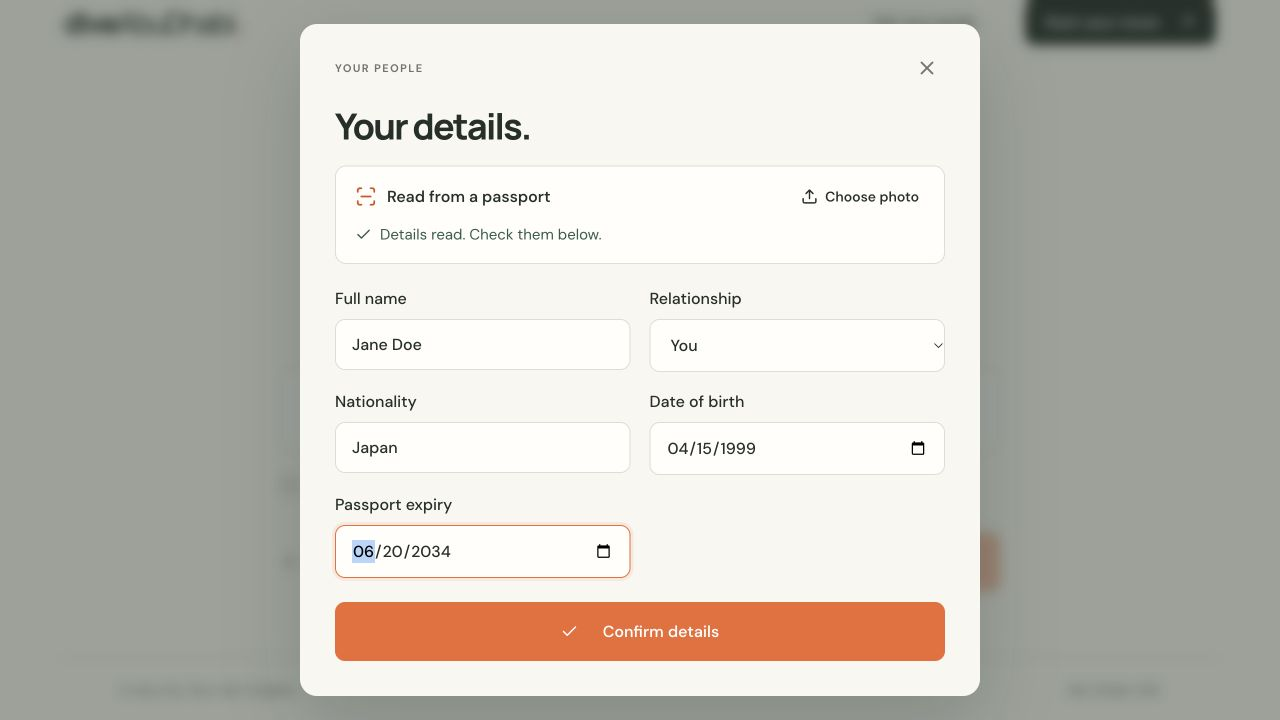
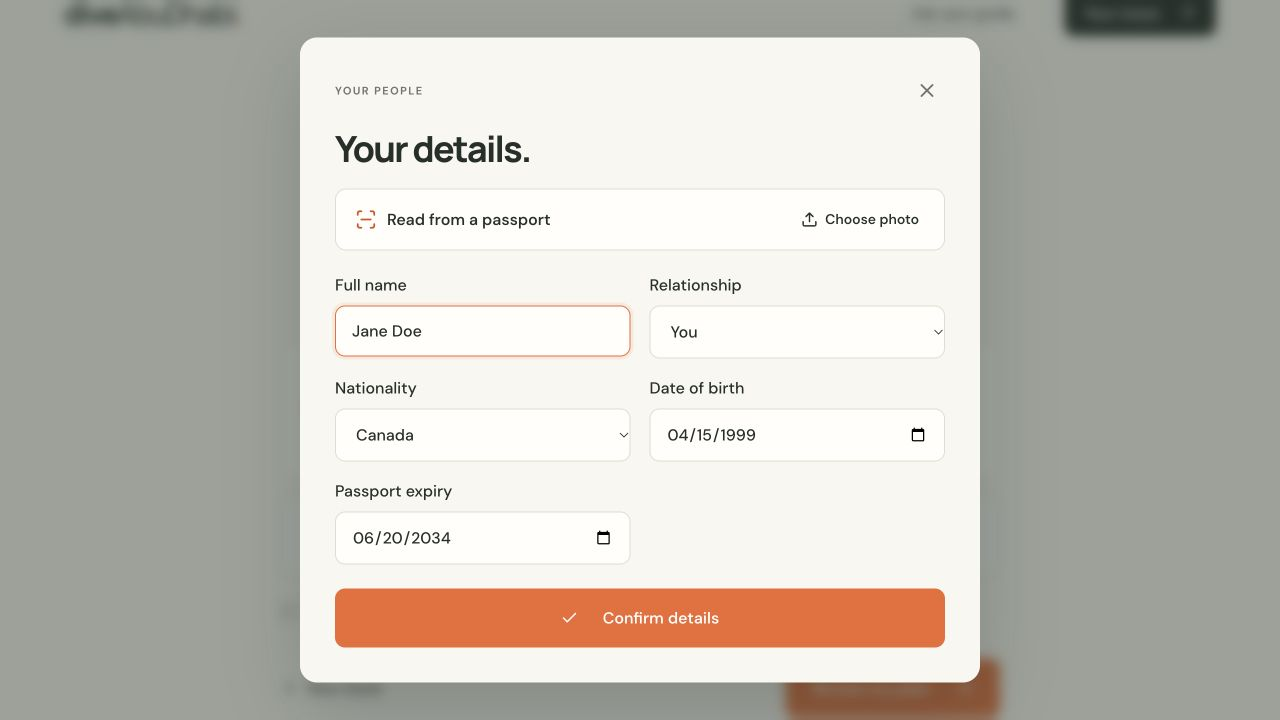
Improve passport nationality reading and selection

diff --git a/components/onboarding.tsx b/components/onboarding.tsx
@@ -9,6 +9,7 @@ import { memberSchema, type Member, type Plan, type Profile, type Route } from "
 import { addDays, formatDate, money, nextQuestion, questions, today } from "@/lib/planner";
 import { readPassportLocally } from "@/lib/browser-ocr";
 import { toApiCase } from "@/lib/storage";
+import { nationalityOptions, normalizeNationality } from "@/lib/nationalities";
 
 export function StartScreen() {
   const { data, setData } = useCase(); const router = useRouter();
@@ -40,7 +41,7 @@ export function MembersScreen() {
   const [busy,setBusy]=useState(false);const [preparing,setPreparing]=useState(false);const [error,setError]=useState("");const [warnings,setWarnings]=useState<string[]>([]);const [readDone,setReadDone]=useState(false);
   const [ocrProgress,setOcrProgress]=useState(0);
   const [pendingDelete,setPendingDelete]=useState<string|null>(null);const fileRef=useRef<HTMLInputElement>(null);
-  function open(member: Member){setError("");setWarnings([]);setConsent(false);setImage("");setFileName("");setReadDone(false);setEditing({...member});}
+  function open(member: Member){setError("");setWarnings([]);setConsent(false);setImage("");setFileName("");setReadDone(false);setEditing({...member,nationality:normalizeNationality(member.nationality)});}
   function add(){open({id:crypto.randomUUID(),relationship:data.members.some(member=>member.relationship==="self")?"spouse":"self",name:"",nationality:"",birthDate:"",expiry:"",passportNumber:"",confirmed:false});}
   async function upload(file:File|undefined){if(!file)return;setPreparing(true);setError("");setReadDone(false);try{setImage(await prepareImage(file));setFileName(file.name);setConsent(false);}catch(error){setError(error instanceof Error?error.message:"Choose another image.");}finally{setPreparing(false);if(fileRef.current)fileRef.current.value="";}}
   async function read(){if(!consent||!editing||!image)return;const memberId=editing.id;setBusy(true);setOcrProgress(0);setError("");setWarnings([]);try{const result=await readPassportLocally(image,setOcrProgress);setEditing(previous=>previous?.id===memberId?{...previous,name:result.name||previous.name,nationality:result.nationality||previous.nationality,birthDate:result.birthDate||previous.birthDate,expiry:result.expiry||previous.expiry,passportNumber:"",confirmed:false}:previous);setWarnings(result.warnings);setReadDone(true);setImage("");}catch(error){setError(error instanceof Error?error.message:"Reading failed. Try a clearer photo.");}finally{setBusy(false);}}
@@ -53,7 +54,7 @@ export function MembersScreen() {
     {!data.route&&<div className="info-note">Choose your path first. <Link href="/start">Your move →</Link></div>}
     <div className="people-content"><div className="member-list">{data.members.map(member=><article key={member.id} className="member-card"><span className={`member-avatar ${member.relationship}`}>{member.name.slice(0,1)}</span><div><small>{member.relationship==="self"?"YOU":member.relationship==="spouse"?"PARTNER":"CHILD"}</small><h3>{member.name}</h3><p>{member.nationality}</p></div><span className="member-confirmed" aria-label="Details confirmed"><Check size={17}/></span><button className="icon-button" aria-label={`Edit ${member.name}`} onClick={()=>open(member)}><Pencil size={18}/></button><button className="icon-button" aria-label={`Remove ${member.name}`} onClick={()=>setPendingDelete(member.id)}><Trash2 size={18}/></button></article>)}</div><button className="add-member" disabled={data.members.length>=12} onClick={add}><Plus size={22}/>{data.members.length?"Add a family member":"Add yourself"}<ArrowUpRight size={20}/></button><p className="people-note"><ScanLine size={19}/>Read a passport photo, or enter details yourself.</p></div>
     <div className="setup-bottom"><Link className="text-link" href="/start"><ChevronLeft size={18}/>Your move</Link><button className="button primary" disabled={!confirmed||!data.route} onClick={()=>router.push(data.plan?"/dashboard":"/consultation")}>{data.plan?"Review my plan":"Continue"}<ArrowRight size={19}/></button></div>
-    {editing&&<FocusDialog className="modal-backdrop" onClose={close}><section className="modal member-modal" role="dialog" aria-modal="true" aria-labelledby="member-title"><div className="modal-heading"><span className="eyebrow">YOUR PEOPLE</span><button className="icon-button" disabled={busy||preparing} aria-label="Close member editor" onClick={close}><X size={22}/></button></div><h2 id="member-title">{editing.relationship==="self"?"Your details.":"Someone joining you."}</h2><div className="upload-box"><div className="upload-heading"><ScanLine size={22}/><strong>Read from a passport</strong><button className="text-link" disabled={busy||preparing} onClick={()=>fileRef.current?.click()}><Upload size={17}/>{preparing?"Opening…":image?"Change photo":"Choose photo"}</button></div><input ref={fileRef} type="file" accept="image/png,image/jpeg,image/webp" className="sr-only" aria-label="Choose a passport photo" onChange={event=>upload(event.target.files?.[0])}/>{image&&<><div className="image-preview"><img src={image} alt="Selected passport, ready for reading"/><span>{fileName}</span></div><label className="consent-label"><input type="checkbox" checked={consent} disabled={busy} onChange={event=>setConsent(event.target.checked)}/><span>Read this photo on my device. The photo stays on this device.</span></label><button className="button dark full-width" disabled={!consent||busy} onClick={read}>{busy?<><LoaderCircle className="spin" size={18}/>Reading your passport… {ocrProgress}%</>:<><ScanLine size={18}/>Read passport</>}</button></>}{readDone&&<div className="read-success" role="status"><Check size={17}/>Details read. Check them below.</div>}</div><ErrorNotice error={error}/>{warnings.map((warning,index)=><p className="field-hint" key={index}>{warning}</p>)}<form onSubmit={save}><div className="form-grid"><label>Full name<input autoFocus required maxLength={100} value={editing.name} disabled={busy} onChange={event=>setEditing({...editing,name:event.target.value,confirmed:false})}/></label><label>Relationship<select value={editing.relationship} disabled={busy} onChange={event=>setEditing({...editing,relationship:event.target.value as Member["relationship"]})}><option value="self">You</option><option value="spouse">Spouse / partner</option><option value="child">Child</option></select></label><label>Nationality<input required maxLength={60} value={editing.nationality} disabled={busy} onChange={event=>setEditing({...editing,nationality:event.target.value,confirmed:false})}/></label><label>Date of birth<input type="date" max={today()} value={editing.birthDate} disabled={busy} onInput={event=>setEditing({...editing,birthDate:event.currentTarget.value,confirmed:false})} onChange={event=>setEditing({...editing,birthDate:event.target.value,confirmed:false})}/></label><label>Passport expiry<input required type="date" min={addDays(today(),1)} value={editing.expiry} disabled={busy} onInput={event=>setEditing({...editing,expiry:event.currentTarget.value,confirmed:false})} onChange={event=>setEditing({...editing,expiry:event.target.value,confirmed:false})}/></label></div><button className="button primary full-width" disabled={busy||preparing} type="submit"><Check size={18}/>Confirm details</button></form></section></FocusDialog>}
+    {editing&&<FocusDialog className="modal-backdrop" onClose={close}><section className="modal member-modal" role="dialog" aria-modal="true" aria-labelledby="member-title"><div className="modal-heading"><span className="eyebrow">YOUR PEOPLE</span><button className="icon-button" disabled={busy||preparing} aria-label="Close member editor" onClick={close}><X size={22}/></button></div><h2 id="member-title">{editing.relationship==="self"?"Your details.":"Someone joining you."}</h2><div className="upload-box"><div className="upload-heading"><ScanLine size={22}/><strong>Read from a passport</strong><button className="text-link" disabled={busy||preparing} onClick={()=>fileRef.current?.click()}><Upload size={17}/>{preparing?"Opening…":image?"Change photo":"Choose photo"}</button></div><input ref={fileRef} type="file" accept="image/png,image/jpeg,image/webp" className="sr-only" aria-label="Choose a passport photo" onChange={event=>upload(event.target.files?.[0])}/>{image&&<><div className="image-preview"><img src={image} alt="Selected passport, ready for reading"/><span>{fileName}</span></div><label className="consent-label"><input type="checkbox" checked={consent} disabled={busy} onChange={event=>setConsent(event.target.checked)}/><span>Read this photo on my device. The photo stays on this device.</span></label><button className="button dark full-width" disabled={!consent||busy} onClick={read}>{busy?<><LoaderCircle className="spin" size={18}/>Reading your passport… {ocrProgress}%</>:<><ScanLine size={18}/>Read passport</>}</button></>}{readDone&&<div className="read-success" role="status"><Check size={17}/>Details read. Check them below.</div>}</div><ErrorNotice error={error}/>{warnings.map((warning,index)=><p className="field-hint" key={index}>{warning}</p>)}<form onSubmit={save}><div className="form-grid"><label>Full name<input autoFocus required maxLength={100} value={editing.name} disabled={busy} onChange={event=>setEditing({...editing,name:event.target.value,confirmed:false})}/></label><label>Relationship<select value={editing.relationship} disabled={busy} onChange={event=>setEditing({...editing,relationship:event.target.value as Member["relationship"]})}><option value="self">You</option><option value="spouse">Spouse / partner</option><option value="child">Child</option></select></label><label>Nationality<select required value={editing.nationality} disabled={busy} onChange={event=>setEditing({...editing,nationality:event.target.value,confirmed:false})}><option value="">Select nationality</option>{editing.nationality&&!nationalityOptions.some(option=>option.name===editing.nationality)&&<option value={editing.nationality}>{editing.nationality}</option>}{nationalityOptions.map(option=><option key={option.code} value={option.name}>{option.name}</option>)}</select></label><label>Date of birth<input type="date" max={today()} value={editing.birthDate} disabled={busy} onInput={event=>setEditing({...editing,birthDate:event.currentTarget.value,confirmed:false})} onChange={event=>setEditing({...editing,birthDate:event.target.value,confirmed:false})}/></label><label>Passport expiry<input required type="date" min={addDays(today(),1)} value={editing.expiry} disabled={busy} onInput={event=>setEditing({...editing,expiry:event.currentTarget.value,confirmed:false})} onChange={event=>setEditing({...editing,expiry:event.target.value,confirmed:false})}/></label></div><button className="button primary full-width" disabled={busy||preparing} type="submit"><Check size={18}/>Confirm details</button></form></section></FocusDialog>}
     {pendingDelete&&<FocusDialog className="modal-backdrop" onClose={()=>setPendingDelete(null)}><section className="modal" role="dialog" aria-modal="true" aria-labelledby="delete-title"><h2 id="delete-title">Remove this person?</h2><div className="button-row"><button className="button secondary" autoFocus onClick={()=>setPendingDelete(null)}>Keep them</button><button className="button primary" onClick={()=>{setData(previous=>({...previous,needsReview:!!previous.plan,plan:previous.plan?{...previous.plan,version:previous.plan.version+1}:null,members:previous.members.filter(member=>member.id!==pendingDelete)}));setPendingDelete(null);}}>Remove</button></div></section></FocusDialog>}
   </SetupFrame>;
 }

diff --git a/lib/passport.ts b/lib/passport.ts
@@ -1,10 +1,10 @@
 import { dateSchema } from "./schema";
+import { nationalityFromCode, nationalityFromVisualText } from "./nationalities";
 
 export type PassportReading = {
   name: string; nationality: string; passportNumber: string; birthDate: string; expiry: string;
   warnings: string[]; checks: { number: boolean; expiry: boolean; birth: boolean; composite: boolean };
 };
-const countries: Record<string,string> = {JPN:"Japan",GBR:"United Kingdom",USA:"United States",CAN:"Canada",AUS:"Australia",NZL:"New Zealand",CHN:"China",KOR:"South Korea",IND:"India",ARE:"United Arab Emirates",FRA:"France",DEU:"Germany",ITA:"Italy",ESP:"Spain",PRT:"Portugal",NLD:"Netherlands",CHE:"Switzerland",SWE:"Sweden",NOR:"Norway",DNK:"Denmark",FIN:"Finland",IRL:"Ireland",BEL:"Belgium",AUT:"Austria",POL:"Poland",GRC:"Greece",TUR:"Türkiye",SGP:"Singapore",MYS:"Malaysia",IDN:"Indonesia",THA:"Thailand",VNM:"Vietnam",PHL:"Philippines",PAK:"Pakistan",BGD:"Bangladesh",LKA:"Sri Lanka",NPL:"Nepal",SAU:"Saudi Arabia",QAT:"Qatar",KWT:"Kuwait",OMN:"Oman",BHR:"Bahrain",EGY:"Egypt",ZAF:"South Africa",BRA:"Brazil",MEX:"Mexico",ARG:"Argentina",RUS:"Russia",UKR:"Ukraine",UTO:"Utopia"};
 export function mrzCheckDigit(value:string):string {
   return String([...value].reduce((sum,char,index)=>sum+(char==="<"?0:/\d/.test(char)?Number(char):char.charCodeAt(0)-55)*[7,3,1][index%3],0)%10);
 }
@@ -30,6 +30,16 @@ export function parsePassportText(text:string):PassportReading {
   const result:PassportReading={name:"",nationality:"",passportNumber:"",birthDate:"",expiry:"",warnings:[],checks:{number:false,expiry:false,birth:false,composite:false}};
   const nameLine=lines.find(line=>/^P[A-Z<][A-Z<]{3}/.test(line)&&line.includes("<<")&&line.length>=15);
   if(nameLine){const parts=nameLine.slice(5).split("<<");const surname=parts[0].replace(/</g," ").trim();const given=(parts[1]||"").replace(/</g," ").trim();if(surname&&given)result.name=`${given} ${surname}`.replace(/\s+/g," ");}
+  // A nationality has no MRZ check digit. Read its fixed position independently
+  // of date validation; don't infer it from the issuing state in the first line.
+  const nationalityVotes=new Map<string,number>();
+  for(const line of lines){
+    if(line===nameLine||line.length<28||!/[0-9OILSBZG]{6,9}[MF<]/.test(line.slice(13)))continue;
+    const nationality=nationalityFromCode(line.slice(10,13));
+    if(nationality)nationalityVotes.set(nationality,(nationalityVotes.get(nationality)||0)+1);
+  }
+  const ranked=[...nationalityVotes].sort((a,b)=>b[1]-a[1]);
+  if(ranked.length===1||ranked[0]?.[1]>ranked[1]?.[1])result.nationality=ranked[0][0];
   const possible=lines.filter(line=>line.length>=28&&/[A-Z<]{3}[0-9OILSBZG]{7}[MF<][0-9OILSBZG]{7}/.test(line));
   let bestScore=-1;
   for(const original of possible){
@@ -37,11 +47,13 @@ export function parsePassportText(text:string):PassportReading {
     const doc=line.slice(0,9);const number=repairNumber(doc,numeric(line[9]||""));const birth=numeric(line.slice(13,19));const expiry=numeric(line.slice(21,27));
     const checks={number:!!number,expiry:mrzCheckDigit(expiry)===numeric(line[27]||"")&&!!mrzDate(expiry),birth:mrzCheckDigit(birth)===numeric(line[19]||"")&&!!mrzDate(birth,true),composite:line.length===44&&mrzCheckDigit(line.slice(0,10)+line.slice(13,20)+line.slice(21,43))===numeric(line[43])};
     const score=Number(checks.birth)*3+Number(checks.expiry)*3+Number(checks.number)+Number(checks.composite);if(score<=bestScore)continue;bestScore=score;
-    result.checks=checks;result.nationality=countries[code]||result.nationality;result.passportNumber=checks.number?number:"";result.birthDate=checks.birth?mrzDate(birth,true):"";result.expiry=checks.expiry?mrzDate(expiry):"";
+    result.checks=checks;result.passportNumber=checks.number?number:"";result.birthDate=checks.birth?mrzDate(birth,true):"";result.expiry=checks.expiry?mrzDate(expiry):"";
   }
+  if(!result.nationality)result.nationality=nationalityFromVisualText(text);
   // Visual-zone date fallback supports a partial result when the MRZ is cropped or unreadable.
   if(!result.expiry){const match=text.toUpperCase().match(/(?:EXPIRY|EXPIRATION)[\s\S]{0,65}?(\d{1,2})\s+(JAN|FEB|MAR|APR|MAY|JUN|JUL|AUG|SEP|OCT|NOV|DEC)\s+(20\d{2})/);if(match){const month=String(["JAN","FEB","MAR","APR","MAY","JUN","JUL","AUG","SEP","OCT","NOV","DEC"].indexOf(match[2])+1).padStart(2,"0");const date=`${match[3]}-${month}-${match[1].padStart(2,"0")}`;if(dateSchema.safeParse(date).success)result.expiry=date;}}
   if(!result.name)result.warnings.push("Enter the full name.");
+  if(!result.nationality)result.warnings.push("Select the nationality.");
   if(!result.birthDate)result.warnings.push("Check the date of birth.");
   if(!result.expiry)result.warnings.push("Check the expiry date.");
   return result;

diff --git a/tests/passport.test.ts b/tests/passport.test.ts
@@ -4,8 +4,8 @@ import {mrzCheckDigit,parsePassportText} from "../lib/passport";
 
 // Fictional document: never use a real passport as a test fixture.
 const number="AB1234567",birth="990415",expiry="340620",personal="<<<<<<<<<<<<<<";
-const first="P<UTODOE<<JANE<<<<<<<<<<<<<<<<<<<<<<<<<<<<<<<";
-const second=`${number}${mrzCheckDigit(number)}UTO${birth}${mrzCheckDigit(birth)}F${expiry}${mrzCheckDigit(expiry)}${personal}${mrzCheckDigit(personal)}`;
+const first="P<USADOE<<JANE<<<<<<<<<<<<<<<<<<<<<<<<<<<<<<<";
+const second=`${number}${mrzCheckDigit(number)}USA${birth}${mrzCheckDigit(birth)}F${expiry}${mrzCheckDigit(expiry)}${personal}${mrzCheckDigit(personal)}`;
 const mrz=`${first}\n${second}${mrzCheckDigit(second.slice(0,10)+second.slice(13,20)+second.slice(21,43))}`;
 
 test("MRZ extracts an editable name, birth date and expiry from a fictional passport",()=>{
@@ -23,4 +23,26 @@ test("ambiguous OCR dates with invalid checks stay empty for manual correction",
   const reading=parsePassportText(damaged);
   assert.equal(reading.name,"JANE DOE");assert.equal(reading.birthDate,"");assert.equal(reading.expiry,"");assert.equal(reading.warnings.length,2);
   assert.equal(parsePassportText("PASSPORT JAPAN").name,"");
+});
+
+test("nationality is readable even when OCR inserts digits into the dates",()=>{
+  const damaged=`${first}\n${second.slice(0,13)}9${second.slice(13)}`;
+  assert.equal(parsePassportText(damaged).nationality,"United States");
+});
+test("nationality comes from the holder's field, not the issuing state",()=>{
+  assert.equal(parsePassportText(`${first}\n${second.replace('USA','GBR')}`).nationality,"United Kingdom");
+  assert.equal(parsePassportText(`${first}\n${second.replace('USA','UPN')}`).nationality,"");
+  assert.equal(parsePassportText("JAPAN PASSPORT\nP<JPNSMITH<<JANE<<<<<<<<<<<<").nationality,"");
+});
+test("labelled nationality text recovers a damaged MRZ country code",()=>{
+  const damaged=`${first}\n${second.replace('USA','UPN')}\nNationality / Date of birth\nJAPAN 15 APR 1999`;
+  assert.equal(parsePassportText(damaged).nationality,"Japan");
+});
+test("ISO countries and ICAO nationality exceptions are supported",()=>{
+  assert.equal(parsePassportText(`${first}\n${second.replace('USA','NGA')}`).nationality,"Nigeria");
+  assert.equal(parsePassportText(`${first}\n${second.replace('USA','D<<')}`).nationality,"Germany");
+  assert.equal(parsePassportText(`${first}\n${second.replace('USA','GBN')}`).nationality,"British National (Overseas)");
+});
+test("visual nationality matching keeps the first field value ahead of later country names",()=>{
+  assert.equal(parsePassportText("Nationality / Date of birth\nJAPAN 15 APR 1999\nPlace of birth UNITED STATES").nationality,"Japan");
 });

diff --git a/lib/nationalities.ts b/lib/nationalities.ts
@@ -1,0 +1,28 @@
+import countries from "i18n-iso-countries";
+import english from "i18n-iso-countries/langs/en.json";
+
+countries.registerLocale(english);
+const names:Record<string,string>={...countries.getNames("en"),US:"United States",KR:"South Korea",KP:"North Korea"};
+// ICAO Doc 9303-3 exceptions to ISO 3166-1, kept distinct from issuing country.
+const special:Record<string,string>={"D<<":"Germany",GBD:"British Overseas Territories Citizen",GBN:"British National (Overseas)",GBO:"British Overseas Citizen",GBS:"British Subject",GBP:"British Protected Person",RKS:"Kosovo"};
+export const nationalityOptions=[...Object.entries(names).map(([code,name])=>({code:countries.alpha2ToAlpha3(code)!,name})),...Object.entries(special).filter(([code])=>code!=="D<<").map(([code,name])=>({code,name}))].sort((a,b)=>a.name.localeCompare(b.name,"en"));
+export function nationalityFromCode(code:string):string {
+  if(special[code])return special[code];
+  const alpha2=countries.alpha3ToAlpha2(code);return alpha2?names[alpha2]||"":"";
+}
+export function normalizeNationality(value:string):string {
+  const text=value.trim();const code=text.toUpperCase();
+  if(nationalityFromCode(code))return nationalityFromCode(code);
+  const alpha2=countries.getAlpha2Code(text,"en");return alpha2?names[alpha2]||text:text;
+}
+const visualNames=Object.entries(names).flatMap(([code,name])=>[...new Set([name,...(countries.getName(code,"en",{select:"all"})||[])])].map(alias=>({alias:alias.toUpperCase(),name}))).sort((a,b)=>b.alias.length-a.alias.length);
+export function nationalityFromVisualText(text:string):string {
+  // Restrict matching to the labelled nationality field, not the issuing-state header.
+  const field=text.toUpperCase().match(/NATIONALITY\b([\s\S]{0,90})/)?.[1];
+  if(!field)return "";
+  const matches=visualNames.flatMap(({alias,name})=>{
+    const match=new RegExp(`(?:^|[^A-Z])${alias.replace(/[.*+?^${}()|[\]\\]/g,"\\$&")}(?=$|[^A-Z])`).exec(field);
+    return match?[{name,index:match.index}]:[];
+  }).sort((a,b)=>a.index-b.index);
+  return matches[0]?.name||"";
+}

diff --git a/lib/browser-ocr.ts b/lib/browser-ocr.ts
@@ -13,7 +13,7 @@ function prepareCanvas(image:HTMLImageElement,area:{x:number;y:number;width:numb
   for(let i=0;i<pixels.data.length;i+=4){let value=Math.max(0,Math.min(255,(pixels.data[i]-low)*255/Math.max(1,high-low)));if(threshold!==undefined)value=value>=threshold?255:0;pixels.data[i]=value;pixels.data[i+1]=value;pixels.data[i+2]=value;}
   context.putImageData(pixels,0,0);return canvas;
 }
-const hasCoreFields=(result:PassportReading)=>!!(result.name&&result.birthDate&&result.expiry);
+const hasCoreFields=(result:PassportReading)=>!!(result.name&&result.nationality&&result.birthDate&&result.expiry);
 export async function readPassportLocally(imageUrl:string,onProgress:(progress:number)=>void):Promise<PassportReading> {
   const {createWorker,PSM}=await import("tesseract.js");
   const image=new Image();image.src=imageUrl;await image.decode();

diff --git a/README.md b/README.md
@@ -17,7 +17,7 @@ npm run dev
 
 Tesseract.jsとMRZ解析をブラウザ内で実行します。APIキーは不要で、写真は外部APIへ送信しません。エンジンと英語モデルも自サイトから配信します。
 
-写真選択→読取→名前・生年月日・有効期限の確認→確定の流れです。読取結果は編集できる入力欄へ反映され、誤読や空欄は手動修正できます。国籍も読めれば反映します。番号は入力や保存を求めません。写真は読み取り後に破棄します。
+写真選択→読取→名前・国籍・生年月日・有効期限の確認→確定の流れです。読取結果は編集できる入力欄へ反映され、誤読や空欄は手動修正できます。国籍はMRZと写真のNationality欄から読み取り、プルダウンへ反映します。誤りがあれば国の一覧から選び直せます。番号は入力や保存を求めません。写真は読み取り後に破棄します。
 
 写真の傾き、反射、不鮮明さによって部分的な読み取りになる場合があります。MRZの日付はチェック桁を検証し、検証できない値を確定情報として扱いません。画像はGitや自動テストのfixtureに含めません。
 
@@ -64,7 +64,7 @@ npm run test
 npm run build
 ```
 
-単体テストは全ルート、遅延伝播、完了状態、到着日変更、家族・学校・予算の更新、version競合、費用区分、番号除外、ナレッジ検索、架空MRZの解析を確認します。
+単体テストは全ルート、遅延伝播、完了状態、到着日変更、家族・学校・予算の更新、version競合、費用区分、番号除外、ナレッジ検索、架空MRZの解析、国籍の独立読取と発行国との区別を確認します。
 
 開発サーバー起動中のAPIスモークテスト:
 
